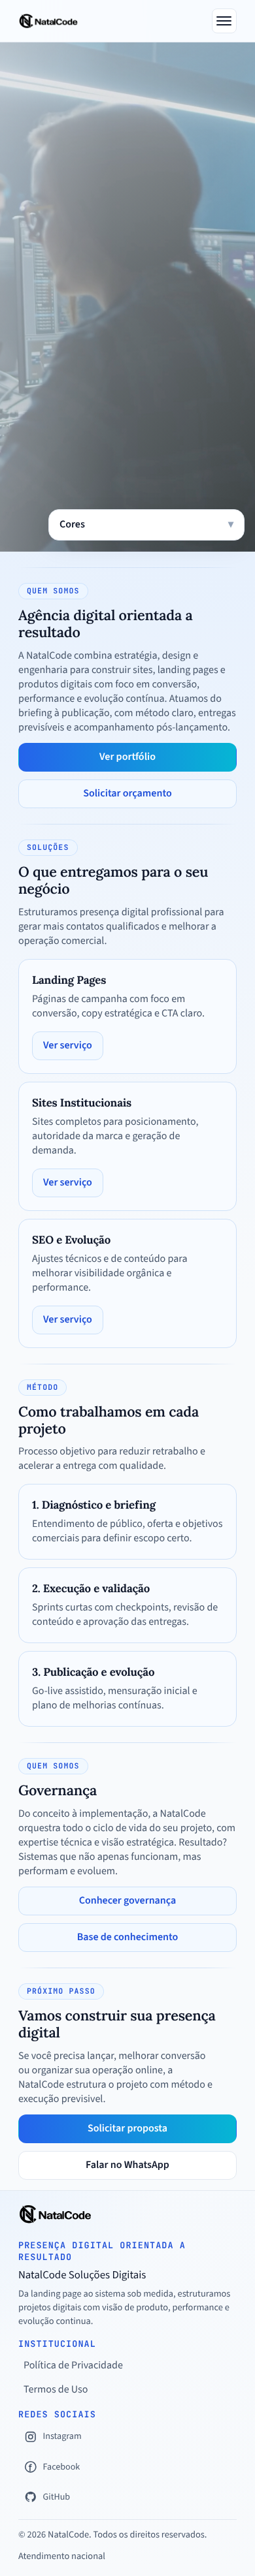
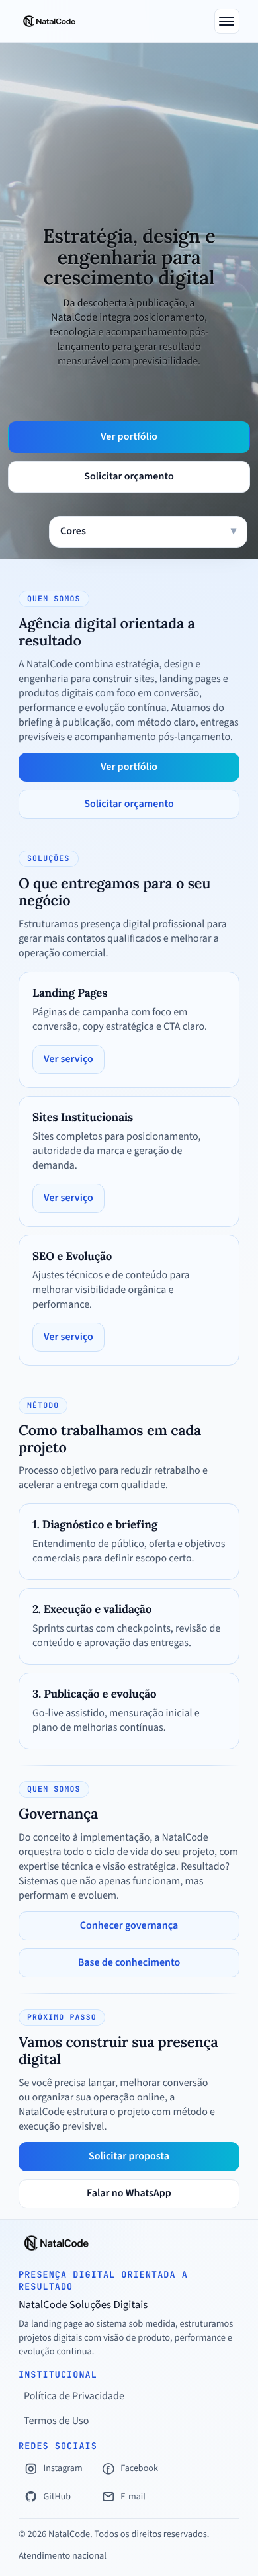
natalcode

Changed region(s): [[0.0, 0.0311, 1.0, 0.963], [0.0615, 0.0, 0.1231, 0.0311]]

diff --git a/public/assets/css/cedern.css b/public/assets/css/cedern.css
@@ -694,8 +694,9 @@ h3 {
   padding: 0;
   list-style: none;
   display: grid;
-  grid-template-columns: 1fr;
-  gap: var(--space-3);
+  grid-template-columns: repeat(2, minmax(0, max-content));
+  column-gap: var(--space-3);
+  row-gap: var(--space-2);
 }
 
 .nc-footer-social-link {

diff --git a/app/content/site.php b/app/content/site.php
@@ -39,6 +39,10 @@ return [
             'url' => $githubUrl,
             'label' => $githubLabel,
         ],
+        'email' => [
+            'url' => '/contato#formulario-contato',
+            'label' => 'E-mail',
+        ],
     ],
     'institutional' => [
         'statuteExcerpt' => 'A NatalCode é uma agência digital focada em estratégia, design e desenvolvimento web, com atuação orientada a resultado e experiência do usuário.',